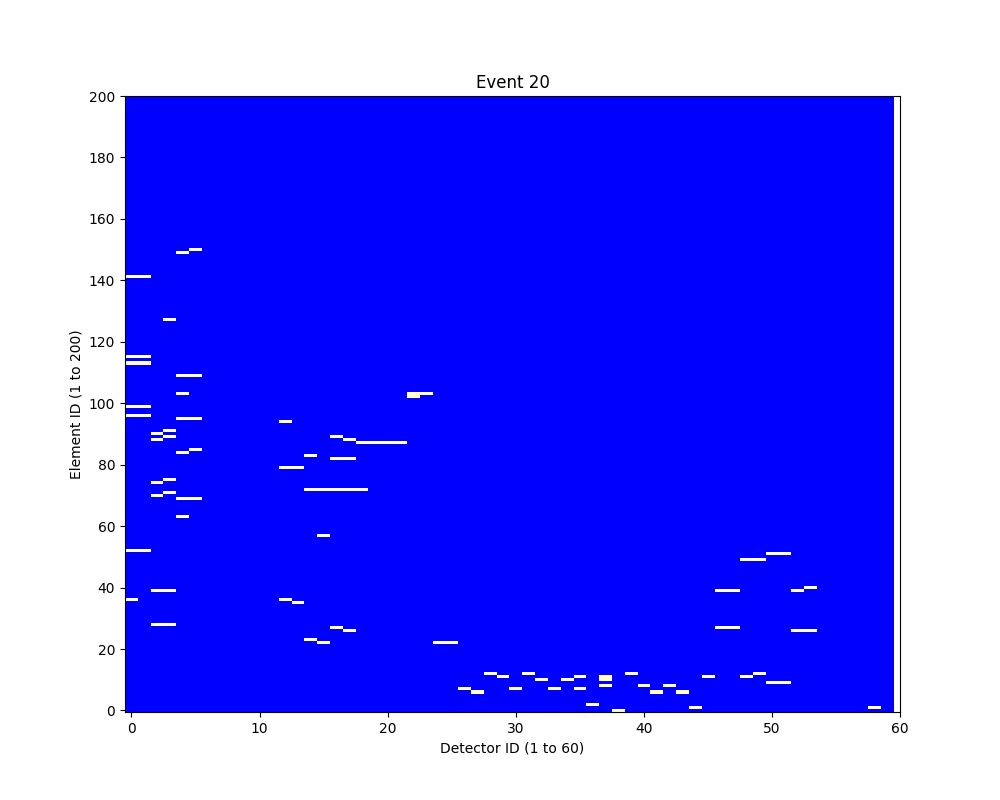
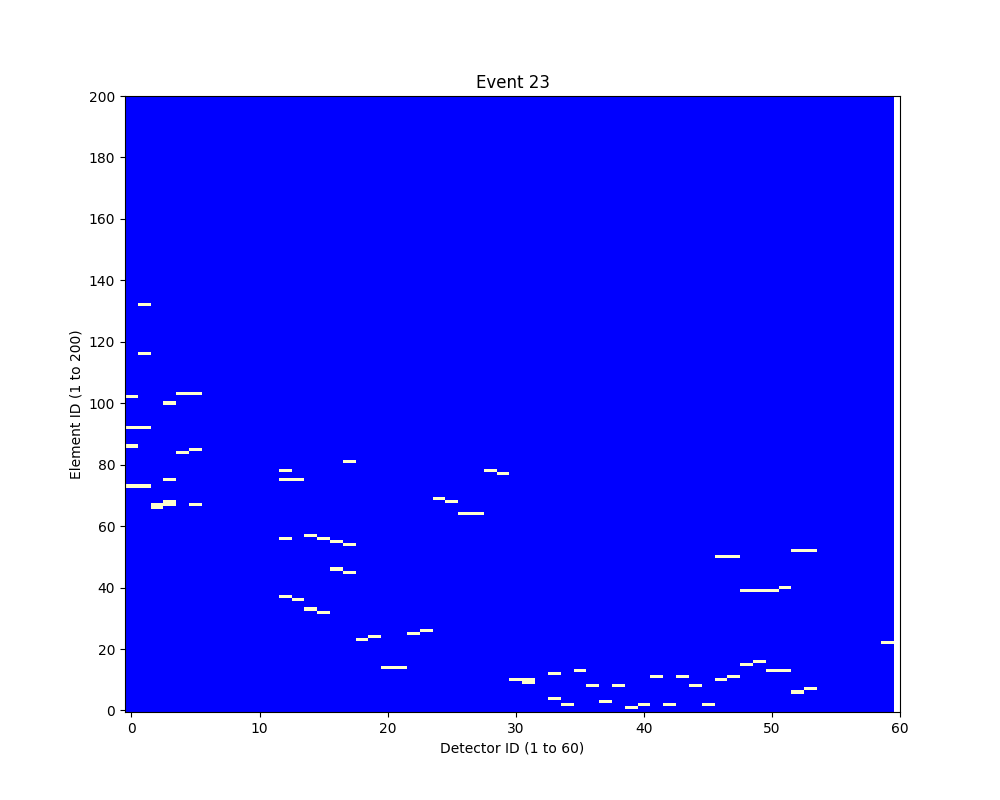
Fixing messy_gen.py to have 100 ish occupancy on average

diff --git a/QTracker_prod/data/messy_gen.py b/QTracker_prod/data/messy_gen.py
@@ -72,6 +72,8 @@ def inject_tracks(file1, file2, output_file, num_tracks, prob_mean, prob_width, 
     num_events_tree2 = tree2.GetEntries()
     tree2_index = 0
 
+    occupancies = []
+
     for i in range(tree1.GetEntries()):
         if tree2_index >= num_events_tree2:
             break
@@ -174,12 +176,22 @@ def inject_tracks(file1, file2, output_file, num_tracks, prob_mean, prob_width, 
                     hitTrackID.push_back(this_gTrackID)
                     local_hitID_counter += 1
 
+        total_hits_this_event = elementID.size()
+        occupancies.append(total_hits_this_event)
+
         output_tree.Fill()
 
     fout.Write()
     fout.Close()
     f1.Close()
     f2.Close()
+
+    mean_occ = float(np.mean(occupancies))
+    median_occ = float(np.median(occupancies))
+    print(f"\n=== Occupancy summary over {len(occupancies)} events ===")
+    print(f"  • mean hits/event    = {mean_occ:.1f}")
+    print(f"  • median hits/event  = {median_occ:.1f}")
+    print(f"  • min/max hits/event = {min(occupancies)}/{max(occupancies)}")
 
 
 if __name__ == "__main__":
@@ -190,9 +202,9 @@ if __name__ == "__main__":
     parser.add_argument("--output", type=str, default="mc_events.root", help="Output ROOT file name.")
     
     # Detector efficiency probability
-    parser.add_argument("--num_tracks", type=int, default=5, help="Number of injected background tracks.")
-    parser.add_argument("--prob_mean", type=float, default=0.9, help="Probability Distribution Mean.")
-    parser.add_argument("--prob_width", type=float, default=0.1, help="Width of probability distribution for variance.")
+    parser.add_argument("--num_tracks", type=int, default=20, help="Number of injected background tracks.")
+    parser.add_argument("--prob_mean", type=float, default=0.15, help="Probability Distribution Mean.")
+    parser.add_argument("--prob_width", type=float, default=0.01, help="Width of probability distribution for variance.")
     
     # Hit fall model: "linear", "gaussian", or "exponential"
     parser.add_argument("--propagation_model", type=str, default="gaussian", help="Choose: ['linear', 'gaussian', or 'exponential'].")

diff --git a/QTracker_prod/extract_hits.py b/QTracker_prod/extract_hits.py
@@ -1,0 +1,39 @@
+import sys
+import uproot
+import numpy as np
+import tensorflow as tf
+import matplotlib.pyplot as plt
+from evaluate import plot_res_histogram
+
+if len(sys.argv) != 2:
+    print("Usage: python3 extract_hits.py path/to/qtracker_reco.root")
+    sys.exit(1)
+
+input_root = sys.argv[1]
+
+f = uproot.open(input_root)
+tree = f["tree"]
+
+true_mup = tree["HitArray_mup"].array(library="np")   # shape = (N, 62)
+true_mum = tree["HitArray_mum"].array(library="np")   # shape = (N, 62)
+pred_mup = tree["qHitArray_mup"].array(library="np")   # shape = (N, 62)
+pred_mum = tree["qHitArray_mum"].array(library="np")   # shape = (N, 62)
+
+N = true_mup.shape[0]
+
+y_true = np.zeros((N, 2, 62), dtype=np.float32)
+y_pred = np.zeros((N, 2, 62), dtype=np.float32)
+
+for i in range(N):
+    y_true[i, 0, true_mup[i]] = 1.0   # mu+
+    y_true[i, 1, true_mum[i]] = 1.0   # mu–
+    y_pred[i, 0, pred_mup[i]] = 1.0
+    y_pred[i, 1, pred_mum[i]] = 1.0
+
+y_true_tf = tf.convert_to_tensor(y_true)
+y_pred_tf = tf.convert_to_tensor(y_pred)
+
+mean_plus, mean_minus, std_plus, std_minus = plot_res_histogram("models/track_finder.h5", y_true_tf, y_pred_tf)
+
+print(f"Mu+ mean residual = {mean_plus:.3f}, σ = {std_plus:.3f}")
+print(f"Mu– mean residual = {mean_minus:.3f}, σ = {std_minus:.3f}")
